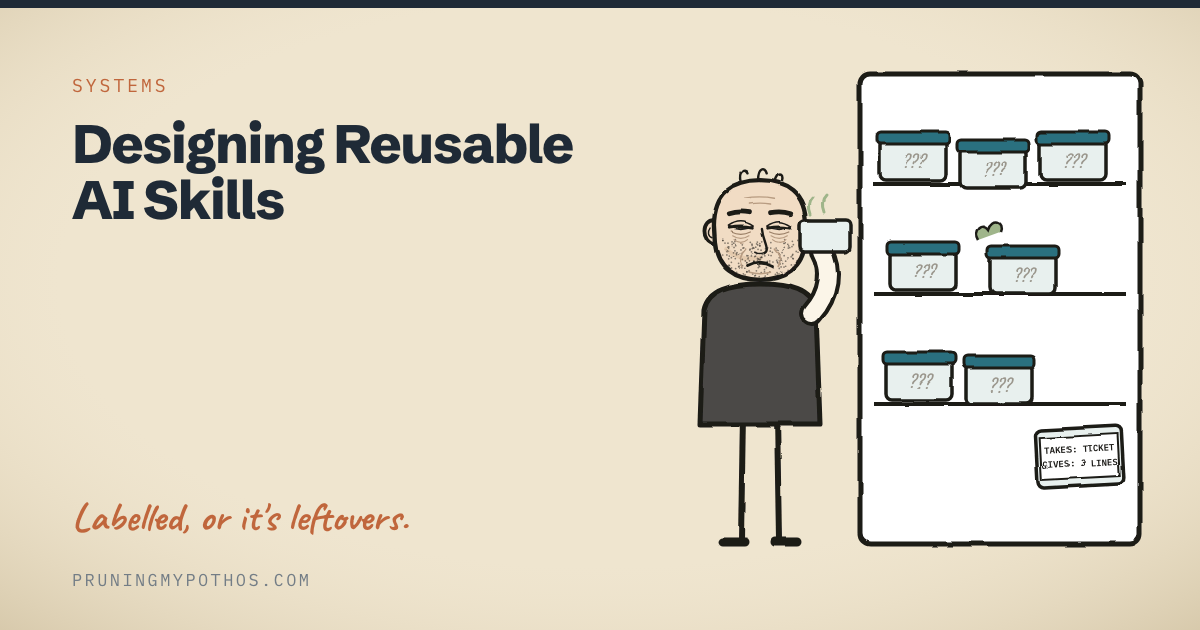
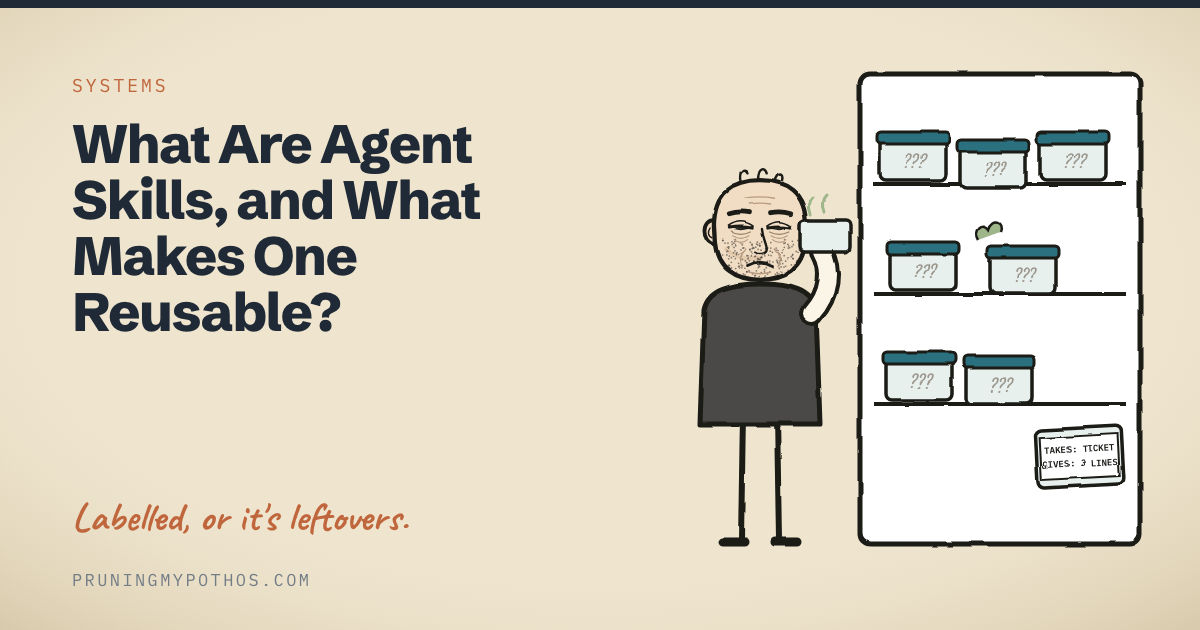
feat(systems): answer "what are agent skills" first on the skills page
Growth row H4. The page opened by setting the platform meaning of
"skill" aside, which left the definitional query unanswered. It now
starts with the open Agent Skills specification (a folder with a
SKILL.md, name and description required, progressive loading) and
Claude Code's skills docs (follows the standard, all fields optional,
own extensions), both accessed 2026-11-05, as three external claims.

The PMP design thesis stays as "What makes a skill reusable", scoped
as a narrower design sense of the word. Purpose and tool scope now
point at the description field and the experimental allowed-tools
field. Same slug. Retitled with a matching SEO title and description,
cover re-exported, related-card titles updated on three pages,
updatedAt 2026-11-05.

Changed region(s): [[0.0617, 0.181, 0.4933, 0.5429]]

diff --git a/docs/EDITORIAL_AUDIT.md b/docs/EDITORIAL_AUDIT.md
@@ -1,6 +1,6 @@
 # Editorial Integrity Audit Report
 
-Content snapshot: sha256:7f6172e8fe42359de149da26858ab837578466caf50d4124b40a396487895cf2
+Content snapshot: sha256:3c44e6dcf060fae19eb5abf8bef7e7023e003e3276adb510106897dd6c3e65ea
 Status: Read-only diagnostic of the existing article archive.
 
 ## Status Definitions
